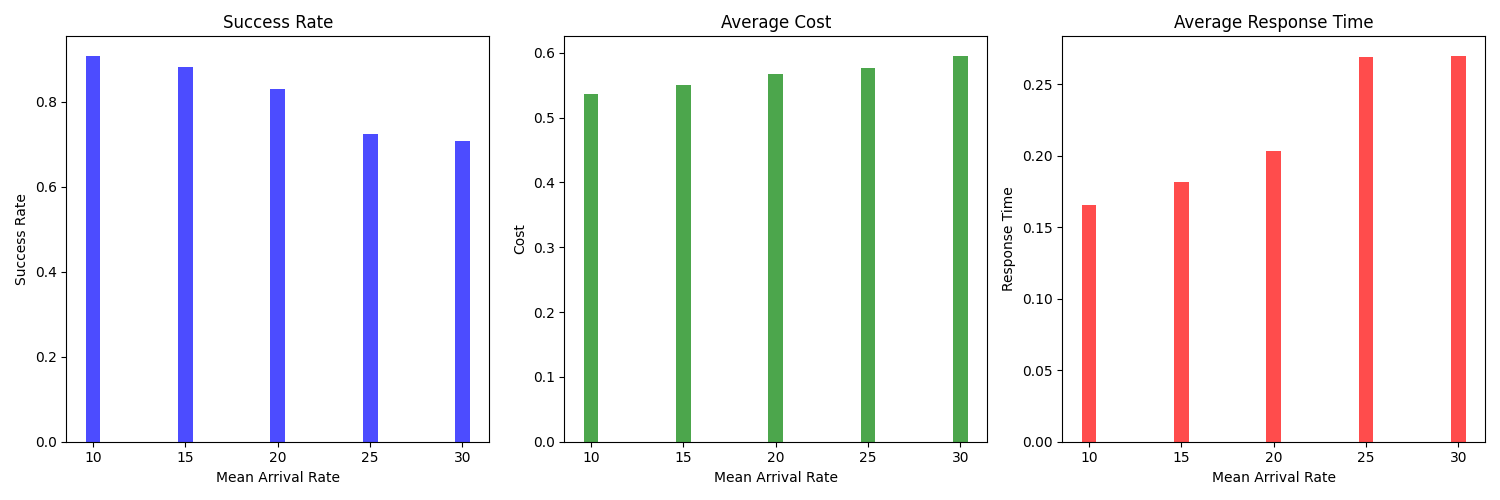
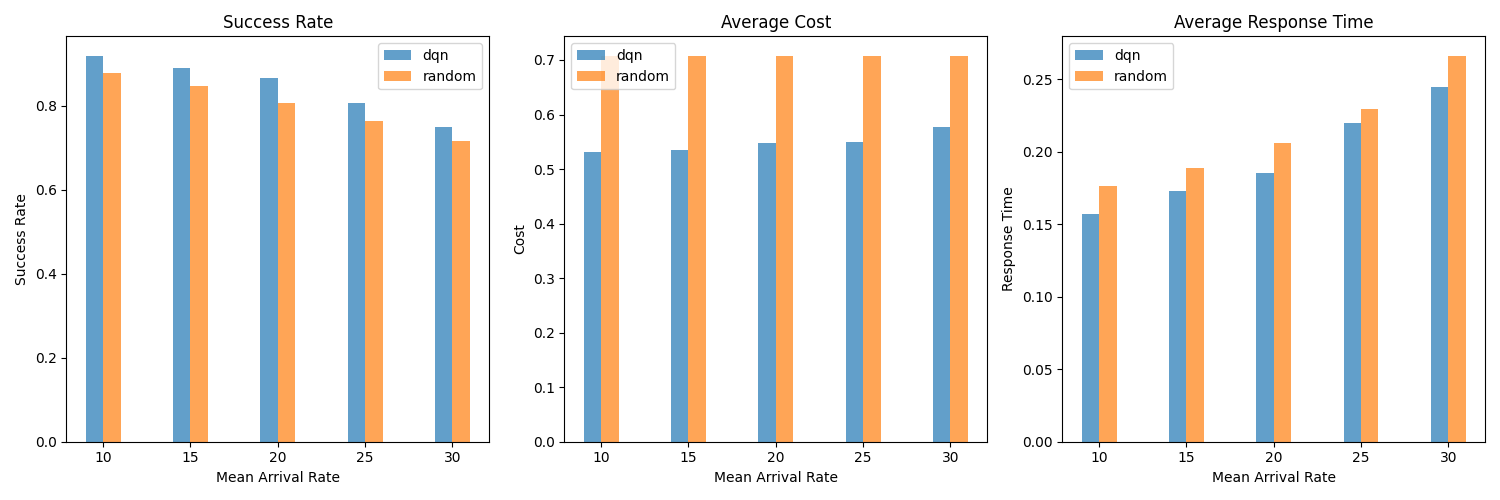
refactored main.py to use all algos in a clean way

diff --git a/main.py b/main.py
@@ -1,82 +1,69 @@
 import matplotlib.pyplot as plt
 from environment import CloudEnvironment
 from algorithms.dqn.agent import DQNAgent
+import numpy as np
+from algorithms.random.scheduler import RandomScheduler
+from utils import Utils
+
 
 arrival_rates = [10, 15, 20, 25, 30]
 
 results = {
-    'success_rate': [],
-    'avg_cost': [],
-    'avg_response_time': []
+    'dqn': {'success_rate': [], 'avg_cost': [], 'avg_response_time': []},
+    'random': {'success_rate': [], 'avg_cost': [], 'avg_response_time': []},
 }
 
 for rate in arrival_rates:
     print(f"\nRunning simulation for arrival rate = {rate}")
-    
-    # create fresh environment and agent for each rate
-    env = CloudEnvironment(
-        n_vms=10, 
-        n_jobs=8000, 
-        io_vm_ratio=0.5, 
-        io_job_ratio=0.5, 
-        mean_job_arrival_rate=rate, 
-        mean_job_length=200, 
-        variance_job_length=40
-    )
-    agent = DQNAgent(input_size=12, hidden_size=20, output_size=10)
 
-    for index, job in enumerate(env.jobs):
-        env.current_time = job.arrival_time
-
-        state = env.get_state(job)
-        action = agent.select_action(state)
-
-        selected_vm = env.vms[action]
-        selected_vm.assign_job(job)
-        reward = env.calculate_reward(job)
-
-        if index < len(env.jobs) - 1:
-            next_state = env.get_state(env.jobs[index + 1])
-        else:
-            next_state = [0] * 12
-
-        agent.remember(state, action, reward, next_state)
-        agent.train()
-
-        if index % 1000 == 0:
-            print(f"  Job {index}/8000 | Epsilon: {agent.epsilon:.3f}")
-
-    # calculate metrics
-    total_jobs = len(env.jobs)
-    success_rate = sum(job.success for job in env.jobs) / total_jobs
-    avg_cost = sum(job.cost for job in env.jobs) / total_jobs
-    avg_response_time = sum(job.response_time for job in env.jobs) / total_jobs
-
-    results['success_rate'].append(success_rate)
-    results['avg_cost'].append(avg_cost)
-    results['avg_response_time'].append(avg_response_time)
-
+    # create environment and agent for each rate
+    seed = np.random.default_rng(1)
+    env = Utils.create_environment(seed, rate)
+    success_rate, avg_cost, avg_response_time = Utils.run_dqn(env)
+    results['dqn']['success_rate'].append(success_rate)
+    results['dqn']['avg_cost'].append(avg_cost)
+    results['dqn']['avg_response_time'].append(avg_response_time)
+    print("DQN Scheduler:")
     print(f"  Success Rate: {success_rate*100:.2f}%")
     print(f"  Average Cost: {avg_cost:.4f}")
     print(f"  Average Response Time: {avg_response_time:.4f}")
 
+    # Random 
+    seed = np.random.default_rng(1)
+    env = Utils.create_environment(seed, rate)
+    success_rate, avg_cost, avg_response_time = Utils.run_scheduler(env, RandomScheduler(seed))
+    results['random']['success_rate'].append(success_rate)
+    results['random']['avg_cost'].append(avg_cost)
+    results['random']['avg_response_time'].append(avg_response_time)
+    print("Random Scheduler:")
+    print(f"  Success Rate: {success_rate*100:.2f}%")
+    print(f"  Average Cost: {avg_cost:.4f}")
+    print(f"  Average Response Time: {avg_response_time:.4f}")
+
+
 # plot results
 fig, axes = plt.subplots(1, 3, figsize=(15, 5))
 
-axes[0].bar(arrival_rates, results['success_rate'], color='blue', alpha=0.7)
-axes[0].set_title('Success Rate')
-axes[0].set_xlabel('Mean Arrival Rate')
-axes[0].set_ylabel('Success Rate')
+x = np.arange(len(arrival_rates))
+width = 0.2
+n = len(results)
 
-axes[1].bar(arrival_rates, results['avg_cost'], color='green', alpha=0.7)
-axes[1].set_title('Average Cost')
-axes[1].set_xlabel('Mean Arrival Rate')
-axes[1].set_ylabel('Cost')
+metrics_to_plot = [
+    ('success_rate', 'Success Rate', 'Success Rate'),
+    ('avg_cost', 'Average Cost', 'Cost'),
+    ('avg_response_time', 'Average Response Time', 'Response Time'),
+]
 
-axes[2].bar(arrival_rates, results['avg_response_time'], color='red', alpha=0.7)
-axes[2].set_title('Average Response Time')
-axes[2].set_xlabel('Mean Arrival Rate')
-axes[2].set_ylabel('Response Time')
+for ax, (metric, title, ylabel) in zip(axes, metrics_to_plot):
+    for i, (algorithm, metrics) in enumerate(results.items()):
+        offset = (i - n/2) * width + width/2
+        ax.bar(x + offset, metrics[metric], width, label=algorithm, alpha=0.7)
+    ax.set_title(title)
+    ax.set_xlabel('Mean Arrival Rate')
+    ax.set_ylabel(ylabel)
+    ax.set_xticks(x)
+    ax.set_xticklabels(arrival_rates)
+    ax.legend()
 
 plt.tight_layout()
 plt.savefig('results_dqn.png')
